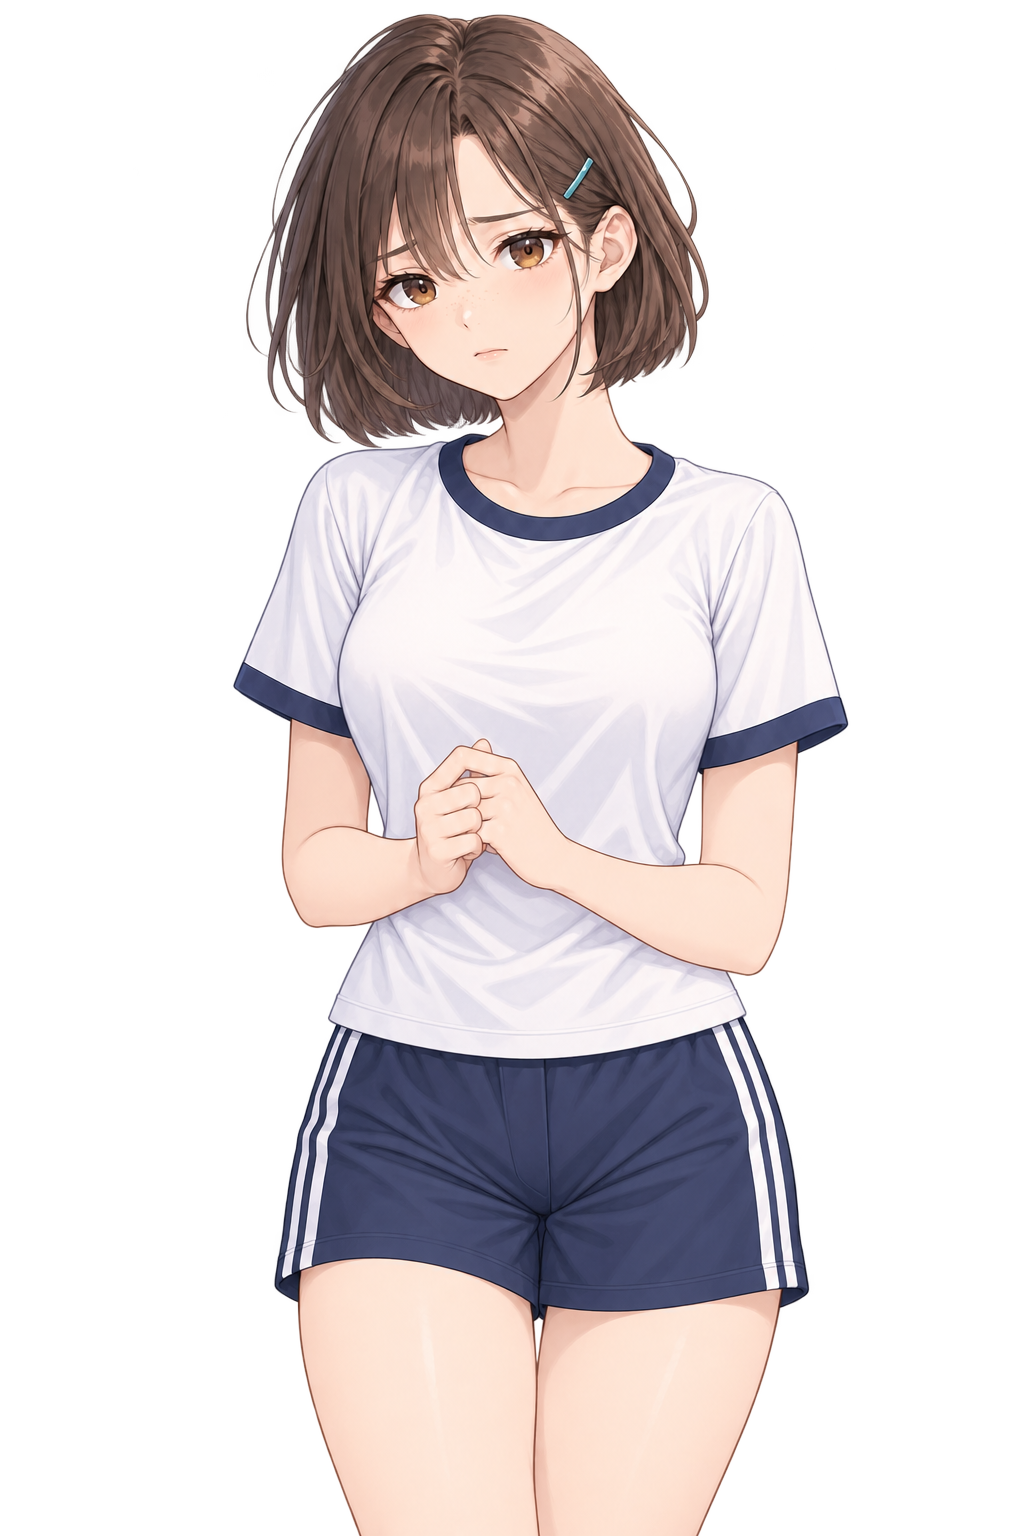
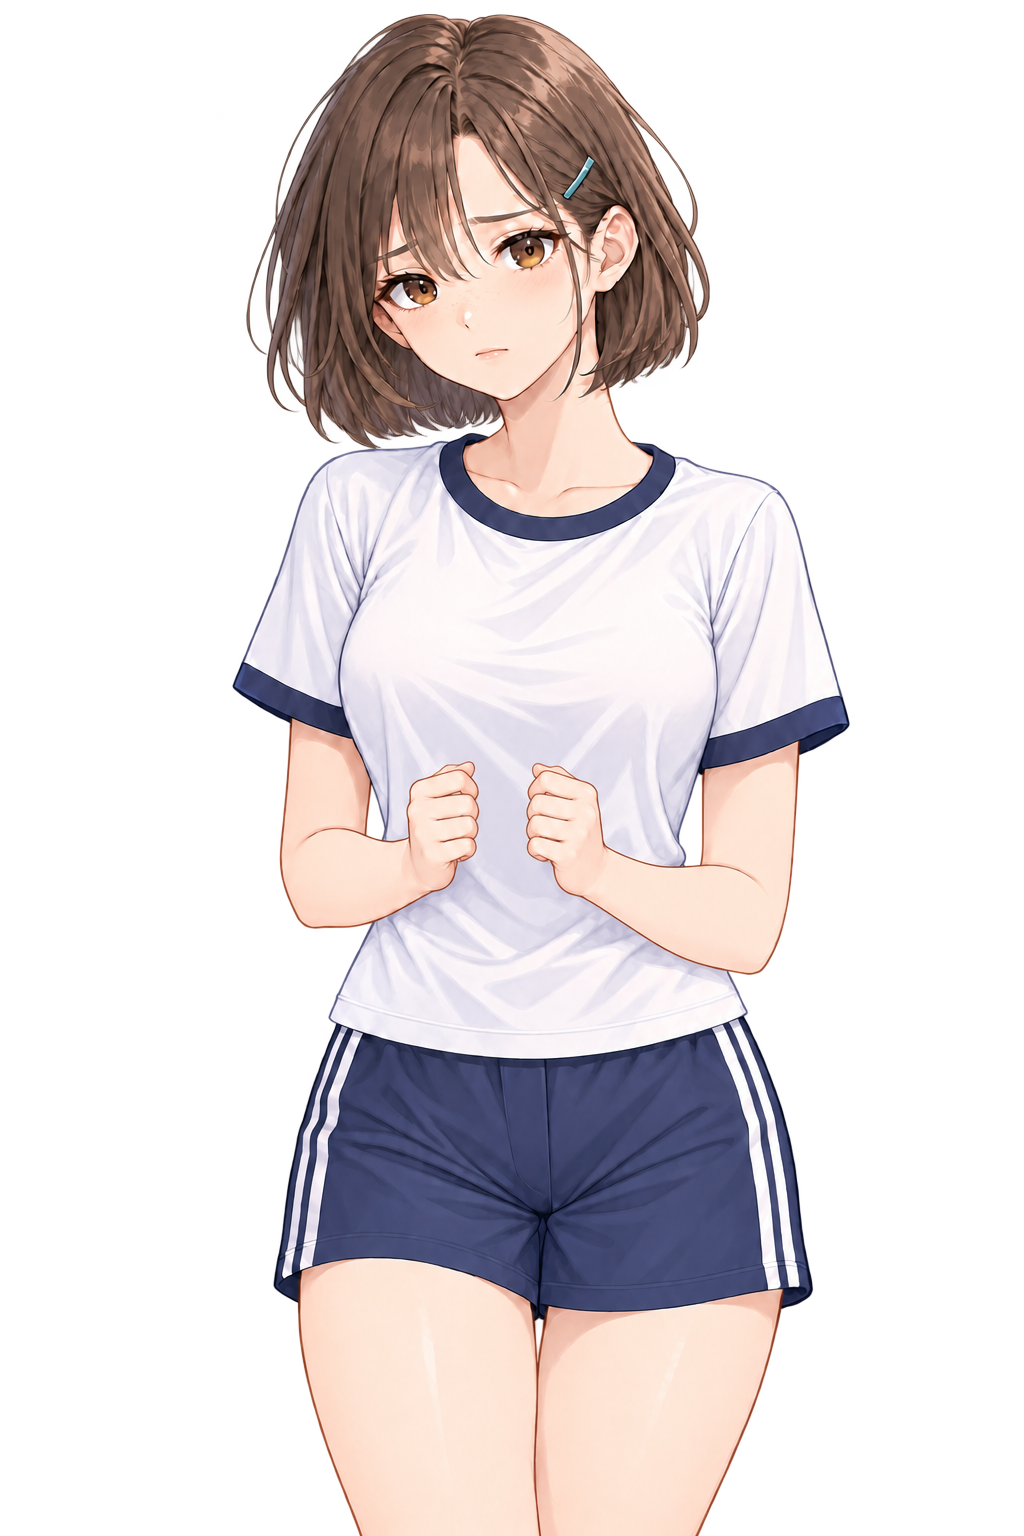
G5 손가락 모양 수정

diff --git a/docs/illustration-replacement-prompts.md b/docs/illustration-replacement-prompts.md
@@ -69,7 +69,7 @@ CG는 공통 CG 블록과 파일별 장면 프롬프트를 이어 붙인다. 무
 | [g2.png](../assets/standing/g2.png) | 체육 활동이 즐거운 듯 맑게 웃으며 한 손을 허리 옆에 편하게 둔다. |
 | [g3.png](../assets/standing/g3.png) | 예상 밖의 결과를 듣고 눈을 크게 뜨는 놀란 표정, 입을 작게 벌린다. |
 | [g4.png](../assets/standing/g4.png) | 응원이나 칭찬에 수줍어하며 볼을 붉히고 시선을 아래로 내린다. |
-| [g5.png](../assets/standing/g5.png) | 경기 결과를 걱정하는 얼굴, 어깨를 살짝 움츠리고 손을 몸 앞에 모은다. |
+| [g5.png](../assets/standing/g5.png) | 경기 결과를 걱정하는 얼굴, 어깨를 살짝 움츠리고 손가락이 닿지 않게 두 손을 몸 앞에서 가볍게 쥔다. |
 | [g6.png](../assets/standing/g6.png) | 장난스럽게 새침한 표정, 고개를 조금 돌려 옆을 바라보며 한 손으로 소매를 정리한다. |
 
 ### 활동복 A 세트
